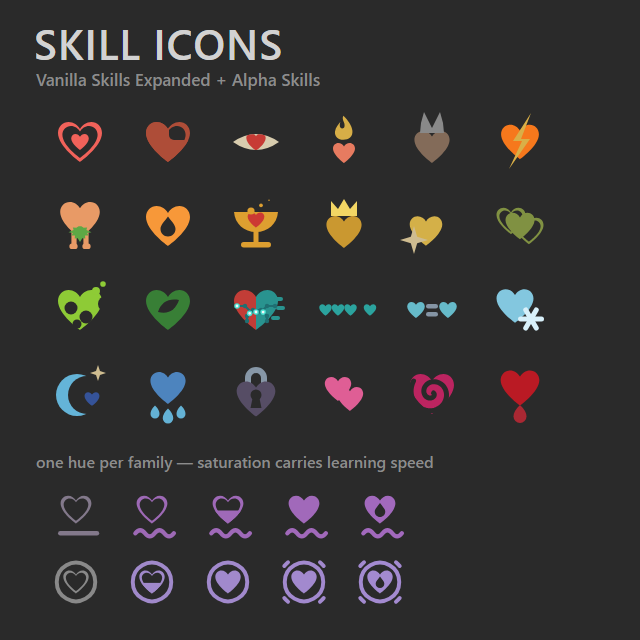
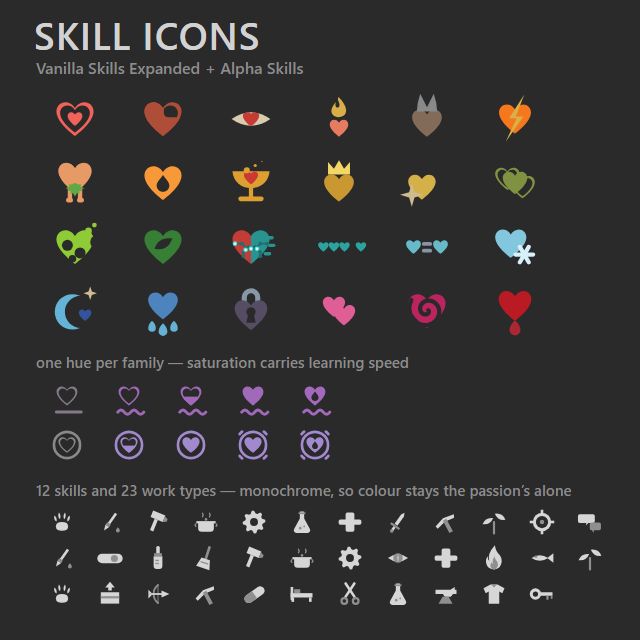
SkillIcons : description, vitrine et menage avant publication
La description ne parlait que des passions : elle avait ete ecrite avant les
icones de competence et de type de travail, donc la page Workshop vendait la
moitie du mod. Elle couvre maintenant les trois jeux, l'emprunt a Pawn Badge et
la licence.

Le Preview montre desormais les 35 icones monochromes SOUS la grille coloree des
passions. Ce voisinage est le propos : il donne a voir les deux regles opposees
d'un coup d'oeil, ce qu'aucune phrase de description ne ferait aussi vite. Les
noms sont lus sur le disque, donc un type de travail ajoute plus tard apparait
dans la vitrine sans qu'on y pense.

ATTRIBUTION.md dit ce que le mod doit a Oracle - le langage graphique, pas les
textures -, a VSE et a Alpha Skills, et surtout le statut exact de l'emprunt a
Pawn Badge : lecture a l'execution, aucune redistribution. Avec une clause de
retrait. CHANGELOG.md ouvre en 1.0.0.

Menage : le .deps.json ne part plus dans l'archive et le csproj ne le produit
plus, RimWorld ne le lisant jamais. Le .pdb est CONSERVE au depot : c'est lui qui
donne les numeros de ligne dans les traces de Player.log, et c'est ainsi qu'on a
debogue. Sa place est dans le depot, pas dans l'archive ; c'est a l'empaquetage
de l'exclure, pas a nous de nous en priver.

diff --git a/_tools/preview.js b/_tools/preview.js
@@ -1,21 +1,25 @@
-// Compose About/Preview.png à partir des SVG RÉELLEMENT livrés, jamais d'un
-// dessin refait à la main. La version précédente était faite à la main, et elle
-// a fini par annoncer le défaut qu'on venait de corriger : elle montrait la
-// palette d'avant la refonte, c'est-à-dire une grille de cœurs rouges.
+// Compose About/Preview.png et About/ModIcon.png à partir des SVG RÉELLEMENT
+// livrés, jamais d'un dessin refait à la main. La version précédente était faite
+// à la main, et elle a fini par annoncer le défaut qu'on venait de corriger :
+// elle montrait la palette d'avant la refonte, une grille de cœurs rouges.
 //
-// La grille est TRIÉE PAR TEINTE, de 0° à 360°. C'est la seule mise en page qui
-// démontre la règle nº1 du jeu d'icônes — chaque passion possède sa teinte, et
-// elles couvrent la roue — au lieu de simplement l'affirmer dans le texte.
+// La grille des passions est TRIÉE PAR TEINTE, de 0° à 360°. C'est la seule
+// mise en page qui démontre la règle nº1 du jeu d'icônes — chaque passion
+// possède sa teinte, et elles couvrent la roue — au lieu de l'affirmer.
+//
+// La bande du bas montre les compétences et les types de travail, qui obéissent
+// à la règle INVERSE : monochromes, la forme seule. Les deux jeux voisinent
+// exprès, parce que ce contraste explique le parti pris mieux qu'une phrase.
 //
 // À lancer après gen.js : il lit ce que gen.js vient d'écrire.
 const fs = require('fs');
 
 const base = 'C:/Users/nelim/Documents/rimworld/SkillIcons';
-const src = `${base}/_tools/svg/Passions`;
+const SVG = `${base}/_tools/svg`;
 
 // Ordre = teinte croissante, mesurée sur les PNG par _tools/audit-teintes.ps1.
-// Les rangs de teinte sont en commentaire pour que la relecture soit possible
-// sans relancer l'audit.
+// Les rangs sont en commentaire pour que la relecture soit possible sans
+// relancer l'audit.
 const GRILLE = [
   'AS_YouthPassion',                   //   3  corail
   'AS_DedicatedPassion',               //  11  brique
@@ -50,55 +54,70 @@ const ECHELLES = [
    'AS_PsychicPassion_Major', 'AS_PsychicPassion_Critical'],
 ];
 
+// Lus sur le disque et non énumérés à la main : un type de travail ajouté à
+// gen.js apparaît alors dans la vitrine sans qu'on y pense.
+const lire = d => fs.readdirSync(`${SVG}/${d}`).filter(f => f.endsWith('.svg'))
+                    .map(f => [d, f.slice(0, -4)]);
+const OUTILS = [...lire('Skills'), ...lire('WorkTypes')];
+
 // Chaque fichier repart de id="m1", id="star"... : recopiés tels quels dans un
 // même document, deux masques homonymes se marchent dessus et une icône se
 // retrouve découpée par le masque d'une autre. On préfixe donc par emplacement.
 let slot = 0;
-const poser = (nom, x, y, taille) => {
+const poser = (dossier, nom, x, y, taille) => {
   const p = 'p' + (++slot) + '_';
-  let s = fs.readFileSync(`${src}/${nom}.svg`, 'utf8')
+  const s = fs.readFileSync(`${SVG}/${dossier}/${nom}.svg`, 'utf8')
     .replace(/^<svg[^>]*>/, '')
     .replace(/<\/svg>\s*$/, '')
     .replace(/id="([^"]+)"/g, (_, id) => `id="${p}${id}"`)
     .replace(/url\(#([^)]+)\)/g, (_, id) => `url(#${p}${id})`);
-  const e = (taille / 64).toFixed(4);
-  return `<g transform="translate(${x},${y}) scale(${e})">${s}</g>`;
+  return `<g transform="translate(${x},${y}) scale(${(taille / 64).toFixed(4)})">${s}</g>`;
 };
 
 const W = 640, H = 640;
 const POLICE = "'Segoe UI Semibold','DejaVu Sans',sans-serif";
+const F = JSON.stringify(POLICE);
+const texte = (x, y, t, taille, couleur) =>
+  `<text x="${x}" y="${y}" font-family=${F} font-size="${taille}" fill="${couleur}">${t}</text>`;
+
 const parts = [
   `<svg xmlns="http://www.w3.org/2000/svg" viewBox="0 0 ${W} ${H}" width="${W}" height="${H}">`,
   `<rect width="${W}" height="${H}" fill="#2A2A2A"/>`,
-  `<text x="34" y="60" font-family=${JSON.stringify(POLICE)} font-size="42"`
-    + ` font-weight="700" letter-spacing="1" fill="#D2D2D2">SKILL ICONS</text>`,
-  `<text x="36" y="86" font-family=${JSON.stringify(POLICE)} font-size="17"`
-    + ` fill="#8C8C8C">Vanilla Skills Expanded + Alpha Skills</text>`,
+  `<text x="34" y="50" font-family=${F} font-size="38" font-weight="700"`
+    + ` letter-spacing="1" fill="#D2D2D2">SKILL ICONS</text>`,
+  texte(36, 74, 'Vanilla Skills Expanded + Alpha Skills', 16, '#8C8C8C'),
 ];
 
-// 6 colonnes × 4 rangées de 64 px. Le pas horizontal (88) laisse 24 px d'air :
-// à cette densité l'œil compare les teintes voisines, ce qui est tout l'objet.
-const T = 64, PAS_X = 88, PAS_Y = 84, X0 = 48, Y0 = 110;
-GRILLE.forEach((nom, i) => {
-  parts.push(poser(nom, X0 + (i % 6) * PAS_X, Y0 + Math.floor(i / 6) * PAS_Y, T));
-});
+// 6 colonnes × 4 rangées. Le pas laisse de l'air : à cette densité l'œil compare
+// les teintes voisines, ce qui est tout l'objet de la planche.
+const T = 54, PAS_X = 88, PAS_Y = 64, X0 = 48, Y0 = 92;
+GRILLE.forEach((n, i) =>
+  parts.push(poser('Passions', n, X0 + (i % 6) * PAS_X, Y0 + Math.floor(i / 6) * PAS_Y, T)));
 
-const yLegende = Y0 + 4 * PAS_Y + 22;
-parts.push(`<text x="36" y="${yLegende}" font-family=${JSON.stringify(POLICE)}`
-  + ` font-size="16" fill="#8C8C8C">one hue per family &#8212; saturation carries learning speed</text>`);
+const yL1 = Y0 + 4 * PAS_Y + 20;
+parts.push(texte(36, yL1, 'one hue per family &#8212; saturation carries learning speed',
+                 15, '#8C8C8C'));
 
 // Les deux échelles à cinq degrés : même teinte du bas en haut, seule la
-// saturation monte. C'est la démonstration que la teinte ne sert QUE l'identité.
-const TE = 56, PAS_E = 76;
-ECHELLES.forEach((echelle, r) => {
-  const y = yLegende + 18 + r * (TE + 12);
-  echelle.forEach((nom, i) => parts.push(poser(nom, X0 + i * PAS_E, y, TE)));
-});
+// saturation monte. La démonstration que la teinte ne sert QUE l'identité.
+const TE = 38, PAS_E = 62;
+ECHELLES.forEach((e, r) => e.forEach((n, i) =>
+  parts.push(poser('Passions', n, X0 + i * PAS_E, yL1 + 12 + r * (TE + 8), TE))));
+
+// La bande du bas : compétences puis types de travail, monochromes. Leur
+// voisinage avec la grille colorée EST le propos — deux jeux, deux règles.
+const yL2 = yL1 + 12 + 2 * (TE + 8) + 24;
+parts.push(texte(36, yL2, '12 skills and 23 work types &#8212; monochrome, so colour stays'
+                        + ' the passion&#8217;s alone', 15, '#8C8C8C'));
+const TO = 28, PAS_O = 48, PAR_RANGEE = 12;
+OUTILS.forEach(([d, n], i) =>
+  parts.push(poser(d, n, X0 + (i % PAR_RANGEE) * PAS_O,
+                   yL2 + 12 + Math.floor(i / PAR_RANGEE) * (TO + 8), TO)));
 
 parts.push('</svg>');
-fs.writeFileSync(`${base}/_tools/svg/Preview.svg`, parts.join(''));
-console.log(`Preview.svg ecrit : ${GRILLE.length} icones triees par teinte`
-  + ` + ${ECHELLES.length} echelles de ${ECHELLES[0].length}`);
+fs.writeFileSync(`${SVG}/Preview.svg`, parts.join(''));
+console.log(`Preview.svg : ${GRILLE.length} passions triees par teinte, `
+  + `${ECHELLES.length} echelles, ${OUTILS.length} outils`);
 
 // ModIcon : l'ancien fichier etait un emoji clin d'oeil sans rapport avec le
 // mod, vraisemblablement copie d'ailleurs. Quatre teintes bien separees en 2x2 :
@@ -109,9 +128,8 @@ const QUAD = ['AS_SanguinePassion', 'AS_CompetitivePassion',
               'AS_FrozenPassion', 'AS_ObsessivePassion'];
 const icone = ['<svg xmlns="http://www.w3.org/2000/svg" viewBox="0 0 64 64"'
   + ' width="64" height="64">'];
-QUAD.forEach((nom, i) => {
-  icone.push(poser(nom, (i % 2) * 32 + 1, Math.floor(i / 2) * 32 + 1, 30));
-});
+QUAD.forEach((n, i) =>
+  icone.push(poser('Passions', n, (i % 2) * 32 + 1, Math.floor(i / 2) * 32 + 1, 30)));
 icone.push('</svg>');
-fs.writeFileSync(`${base}/_tools/svg/ModIcon.svg`, icone.join(''));
+fs.writeFileSync(`${SVG}/ModIcon.svg`, icone.join(''));
 console.log('ModIcon.svg ecrit : 4 teintes en 2x2');

diff --git a/README.md b/README.md
@@ -13,6 +13,13 @@ Passion icons are drawn in four places. All four are covered:
 | work tab | `WidgetsWork.DrawWorkBoxBackground` transpiler (`WorkBoxIcon`) |
 | mod options | the gallery in `DoSettingsWindowContents` |
 
+The skill and work type icons are drawn in two more:
+
+| where | how |
+|---|---|
+| bio tab, before each skill name | `SkillUI.DrawSkill` **prefix**, which shrinks the rect |
+| work tab column headers | `PawnColumnWorker_WorkPriority.DoHeader` prefix |
+
 The postfix sits on the `PassionDef.Icon` getter itself, so any other caller —
 Pawn Editor included — animates for free *provided it goes through that
 property*. Pawn Editor is not installed here, so that one is unverified.
@@ -74,6 +81,41 @@ learns at `0.35` and `VSE_Apathy` at `0.25`, so the rule would make `None` the
 *lighter* of the two. The icon's job here is not to compete, so it is drawn
 darker anyway. Near-black was rejected for a measurable reason: on RimWorld's
 `#2A2A2A` panels it disappears outright at 24 px.
+
+## Skill and work type icons
+
+A second set, 12 skills and 23 work types, obeying the **opposite** rule to the
+passions: monochrome, shape alone. Colour already means "which passion" here, and
+making it mean "which skill" as well would render both unreadable.
+
+Drawn in `gen.js` like everything else, and tested the same way — the silhouette
+sheet at 20 px is what caught the four failures worth recording, because each one
+is a trap that will recur:
+
+| icon | what went wrong | why |
+|---|---|---|
+| Shooting | the rifle became a horizontal smear | long thin objects have no silhouette at 20 px; this is why icon sets reach for a target |
+| Construction | the trowel read as a downward arrow | a triangle pointing down belongs to nobody |
+| Mining | the pickaxe read as an **umbrella** | an arc centred on a vertical handle *is* an umbrella — it took both asymmetry and a diagonal to fix |
+| Firefighter | the flame read as a water drop | a flame is named by its irregular base, not by its outline; a second tone did not help |
+
+Nine work types reuse their skill's drawing. "Cook" and "Cooking" name the same
+domain, and giving them different glyphs would imply two notions.
+
+**Pawn Badge.** When *(MISC) Job Icons+ Revitalized* is installed, its textures
+are read at runtime through `ContentFinder` and served instead, so a player
+already using those badges sees one interface. Nothing is copied, so nothing is
+redistributed, and removing that mod falls back silently.
+
+The mapping in `SkillTypeIcons.cs` was written by **looking** at the icons, under
+one rule: map when the icon *means* the same thing, never when it merely
+resembles it. `drugs` is a capsule that would suit "Patient" perfectly, but it
+means an addict in the source pack. Patient keeps our drawing, as do Basic work,
+Childcare and Dark study, which the pack does not cover.
+
+Both draw sites work by **shrinking the rect** before handing control back to the
+game, rather than locating the label, the bar and the passion icon inside it. The
+patch therefore survives any re-layout by Ludeon.
 
 ## Patches
 
@@ -163,6 +205,15 @@ the *loaded* DLL — still shows the new sliders, which makes a stale build look
 exactly like a broken patch. The mod therefore logs
 `[SkillIcons] assemblage du <date>` on load: compare it against the DLL's
 timestamp before diagnosing anything.
+
+**Packaging.** What ships to the Workshop is not this folder: `_tools/`, the
+`.pdb`, and the C# project files are dropped, which takes it from 5.4 MB to 3.2.
+That is done by `Build-Release.ps1`, which lives one level up in the author's mod
+monorepo rather than here, since it serves every mod in it. Its interesting half
+is not the copying but the refusals — it aborts on a Preview older than the
+newest texture, a DLL older than its sources, a `.Translate()` key missing from a
+language file, or malformed XML. The first two are not hypothetical: both shipped
+here once, and each cost an hour of chasing a bug that did not exist.
 
 `_tools/preview.js` composes `About/Preview.png` and `About/ModIcon.png` from the
 SVGs `gen.js` just wrote, so the store images can never advertise a palette the

diff --git a/ATTRIBUTION.md b/ATTRIBUTION.md
@@ -1,0 +1,62 @@
+# Attribution
+
+Every texture in this mod is generated by `_tools/gen.js` and ships under the MIT
+licence in `LICENSE`. No asset is copied from another mod. What follows is what
+the mod nevertheless owes to others, and the one place where it reads someone
+else's files without redistributing them.
+
+## Oracle's Skill Icon Retextures — the visual language
+
+Workshop: https://steamcommunity.com/sharedfiles/filedetails/?id=3214465250
+
+This set follows Oracle's idea: a heart carrying one small mark that says which
+passion it is. That grammar is theirs, and this mod would look nothing like it
+without them. **The artwork is not.** Early drafts did build on their files;
+nothing of that survives — the 85 passion textures, including the seven
+vanilla/VSE ones, are drawn from scratch by the generator.
+
+The mod declares Oracle's mod in `loadAfter` for a purely technical reason: both
+sets write to the same texture paths, and whichever loads last wins.
+
+## Vanilla Skills Expanded — Oskar Potocki, Sarg Bjornson, Taranchuk
+
+Workshop: https://steamcommunity.com/sharedfiles/filedetails/?id=3400246558
+
+`PassionDef` is theirs. Without it there would be no passions to draw beyond
+vanilla's two, and no `iconPath` to override. This mod patches
+`WidgetsWork.DrawWorkBoxBackground` after them, by explicit Harmony ordering.
+
+`1.6/Patches/VSE_Fixes.xml` adds a missing `workBoxIconPath` to `VSE_Apathy`.
+
+## Alpha Skills — Sarg Bjornson
+
+Workshop: https://steamcommunity.com/sharedfiles/filedetails/?id=3448953006
+
+The twenty-six circumstantial passions this set spends most of its drawings on.
+`1.6/Patches/AlphaSkills_Fixes.xml` repairs four def mistakes found while reading
+them: a description copy-pasted from another passion, a missing "(active)"
+label, a missing work tab icon, and two blindness tiers sharing one icon despite
+granting different bonuses. The patch sits in a `<success>Always</success>`
+sequence, so if Sarg fixes them upstream it goes quietly inert.
+
+## Pawn Badge — (MISC) Job Icons+ Revitalized
+
+Workshop: https://steamcommunity.com/sharedfiles/filedetails/?id=3524906267
+
+When that mod is installed, this one **reads its textures at runtime** through
+`ContentFinder`, so that a player already using those badges sees one consistent
+interface. Nothing is copied into this mod and nothing is redistributed: remove
+that mod and the icons fall back to ours, silently.
+
+The mapping lives in `SkillTypeIcons.cs` and was written by looking at the
+icons, not by reading their file names, under one rule — map when the icon
+*means* the same thing, never when it merely resembles it. `drugs` is a capsule
+that would suit "Patient" perfectly, but in the source pack it means an addict;
+serving it as the Patient column would plant in the player's own interface the
+confusion this mod exists to remove. Patient therefore keeps our drawing, as do
+Basic work, Childcare and Dark study, which the pack does not cover at all.
+
+## Removal
+
+If any author listed here would rather this mod did not follow, credit, or read
+from their work, say so and it will be changed or withdrawn.

diff --git a/CHANGELOG.md b/CHANGELOG.md
@@ -1,0 +1,26 @@
+# Changelog
+
+Format inspired by [Keep a Changelog](https://keepachangelog.com/en/1.1.0/).
+This file serves the repository and the writing of Steam patch notes; RimWorld does not display it in game.
+
+## [1.0.0] — unreleased
+
+First release.
+
+### Added
+
+- A unified passion icon set for Vanilla Skills Expanded and Alpha Skills: 85 textures, drawn from scratch by `_tools/gen.js`. Every passion owns a hue of its own, spread across the colour wheel, and that hue is carried by the main shape rather than by an accessory — at 24 px an accessory disappears.
+- Animations for 40 passions, 920 frames. Each one is a gesture that says something about the passion rather than a generic wobble: the padlock opens, the pendulum swings, the signal runs the circuit, the sand drains.
+- Work tab controls. Vanilla Skills Expanded draws work tab passions small and desaturated, which is where the grid becomes unreadable. Three modes — colour, greyed, or (the default) colour while the bonus is running and grey while it sleeps — plus separate size and opacity sliders, because size helps you see the passion while opacity gives the priority digit back to the text.
+- Icons for the 12 skills and the 23 work types, monochrome by design: in this mod colour already means "which passion", and making it mean "which skill" as well would render both unreadable. Shape alone carries the identity.
+- When *Pawn Badge - (MISC) Job Icons+ Revitalized* is installed, its icons are served instead, so a player already using those badges sees one consistent interface. Its textures are read at runtime, never copied.
+- An optional faint icon for "no passion", off by default. Ten skills out of twelve carry it, and that empty space is what lets you spot the passionate ones at a glance.
+- A gallery in the mod settings listing every passion with both its skill-list icon and its work-tab icon, animating live.
+- English and French. Every string shown in the settings goes through `.Translate()`.
+
+### Fixed
+
+- Alpha Skills: `AS_NudistPassion_Active` carried a description copy-pasted from "nomadic"; `AS_PainDrivenPassion_Active` kept its dormant label, making the two states indistinguishable in the tooltip; `AS_FrozenPassion` had no `workBoxIconPath`; and both blindness tiers shared one icon despite granting different bonuses (0.5×/1.5× against 1×/2×).
+- Vanilla Skills Expanded: `VSE_Apathy` had no `workBoxIconPath`.
+
+Both patch files run inside a `<success>Always</success>` sequence, so if these defs are repaired upstream the patches go quietly inert instead of logging errors.
